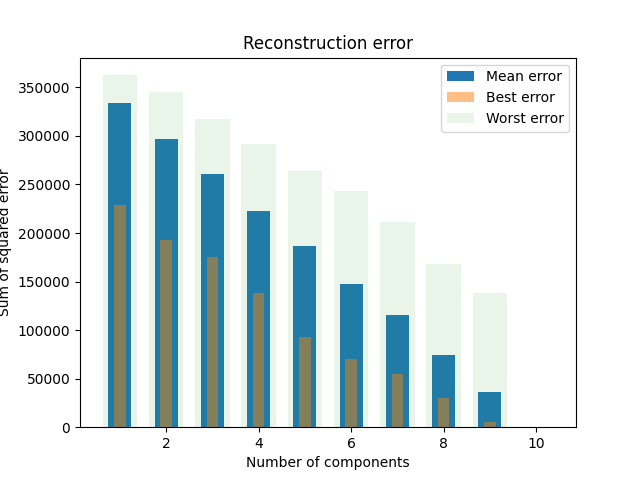
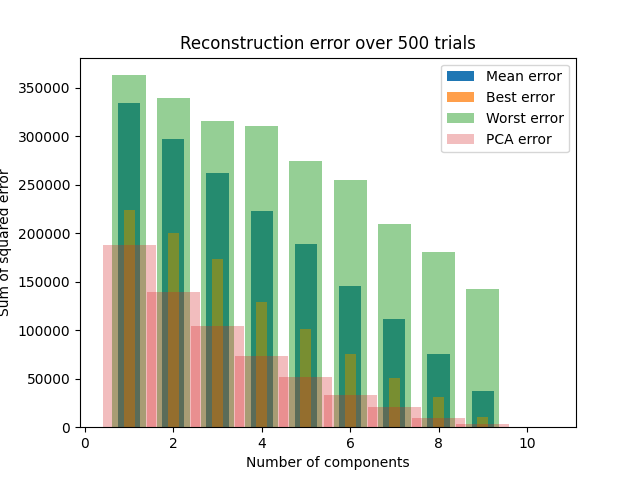
Improved RP analysis

diff --git a/rp.py b/rp.py
@@ -1,6 +1,7 @@
 from sklearn.random_projection import GaussianRandomProjection
 import numpy as np
 import matplotlib.pyplot as plt
+import pca
 
 from data_utils import Task, SampleSet
 import data_utils
@@ -40,26 +41,35 @@ def graph_analysis(task: Task, trials: int):
     sample_set = data_utils.get_all_samples(task)
     num_features = sample_set.samples.shape[1]
     best_error_model_pairs = []
+    pca_errors = []
     mean_errors = []
     best_errors = []
     worst_errors = []
-
     components_to_try = np.arange(1, num_features + 1)
+
+    def calc_sum_of_squared_error(model, transformed_data):
+        reconstruction = model.inverse_transform(transformed_data)
+        return ((sample_set.samples - reconstruction) ** 2).sum()
 
     for num_components in components_to_try:
         errors = []
         best_error = float("inf")
         best_model = None
+
+        # calculate PCA reconstruction error as metric
+        pca_model, transformed_pca_data = pca.transform(sample_set, num_components)
+        pca_error = calc_sum_of_squared_error(pca_model, transformed_pca_data)
+        pca_errors.append(pca_error)
+
+        # create many RP models and calculation reconstruction error
         for trial in range(trials):
-            rp, transformed_data = transform(sample_set, num_components)
-            # compute reconstruction error
-            reconstruction = rp.inverse_transform(transformed_data)
-            sum_of_squared_error = ((sample_set.samples - reconstruction)**2).sum()
+            rp_model, transformed_rp_data = transform(sample_set, num_components)
+            rp_error = calc_sum_of_squared_error(rp_model, transformed_rp_data)
             # keep best
-            if sum_of_squared_error < best_error:
-                best_error = sum_of_squared_error
-                best_model = rp
-            errors.append(sum_of_squared_error)
+            if rp_error < best_error:
+                best_error = rp_error
+                best_model = rp_model
+            errors.append(rp_error)
         best_error_model_pairs.append((best_model, best_error))
         errors = np.array(errors)
         mean_errors.append(errors.mean())
@@ -67,17 +77,18 @@ def graph_analysis(task: Task, trials: int):
         worst_errors.append(errors.max())
 
     fig, ax = plt.subplots(1, 1)
-    ax.set_title('Reconstruction error')
+    ax.set_title(f'Reconstruction error over {trials} trials')
     ax.set_xlabel("Number of components")
     ax.set_ylabel("Sum of squared error")
 
     ax.bar(components_to_try, mean_errors, width=0.5, label='Mean error')
-    ax.bar(components_to_try, best_errors, alpha=0.5, width=0.25, label='Best error')
-    ax.bar(components_to_try, worst_errors, alpha=0.1, width=0.75, label='Worst error')
+    ax.bar(components_to_try, best_errors, alpha=0.75, width=0.25, label='Best error')
+    ax.bar(components_to_try, worst_errors, alpha=0.5, width=0.75, label='Worst error')
+    ax.bar(components_to_try, pca_errors, alpha=0.3, width=1.2, label='PCA error')
     plt.legend(loc='best')
     plt.show()
 
-    return best_error_model_pairs
+    return best_error_model_pairs, np.array(mean_errors), np.array(pca_errors)
 
 
 def transform(sample_set: SampleSet, num_components):
